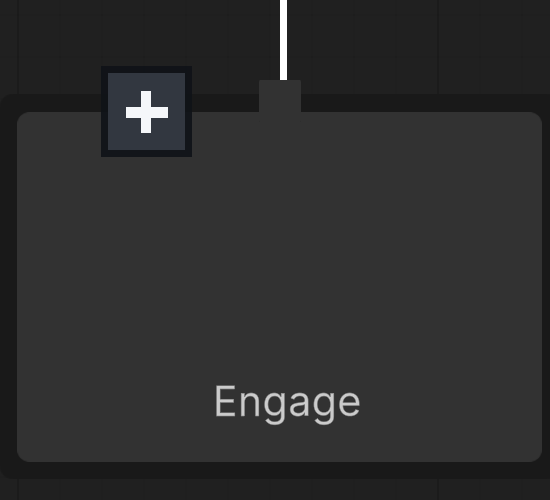
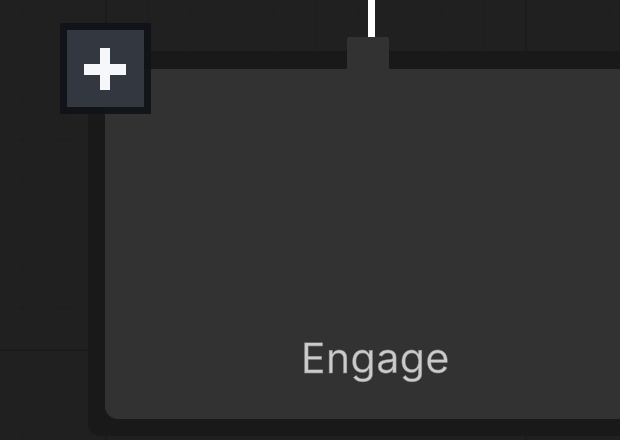
Give each node marker a corner of its own
The collapse toggle needs the top-left, and three markers were already there: the
breakpoint dot on the corner, the execution-status icon hanging off it, and the
problem badge straddling it. Measured, all three overlapped each other -- so this
is a redistribution rather than a sacrifice.

  top-left      collapse toggle, centred on the corner
  top edge      breakpoint dot, which steps aside only on a node that has a toggle
  top-right     priority badge, unchanged
  bottom-left   execution status, moved
  bottom-right  problem badge, moved

The two bottom markers hang from the underside of the node's name rather than from
the edge of the box, so they never land on the name however long it is.

The execution-status icon's cached rect and the rect it was drawn at were never the
same rectangle: the draw shifted it again by (-10, 20). Both now come from
ExecutionStateIconOn, so the thing that reasons about it and the thing that paints
it agree.

Measured on a live canvas with all five on at once: no two overlap, and none of
them touches the port rows or the name. docs/2-building-trees/01-the-graph-editor.md
gains a "Markers on a node" section with that picture, and a test asserts the three
rects that can be computed without a canvas stay apart.

diff --git a/Editor/Widgets/BehaviorTreeNodeElementWidget.cs b/Editor/Widgets/BehaviorTreeNodeElementWidget.cs
@@ -61,7 +61,7 @@ namespace ArcaneOnyx.BehaviorTree
         private readonly Vector2 ICON_POSITION_OFFSET = new Vector2(28.0f, 0.0f);
         private readonly Vector2 ICON_SIZE = new Vector2(65.0f, 65.0f);
         private readonly Vector2 TITLE_POSITION_OFFSET = new Vector2(-15.0f, -40.0f);
-        private readonly Vector2 LAST_EXECUTION_STATE_ICON_OFFSET = new Vector2(-15.0f, -35.0f);
+        private static readonly Vector2 EXECUTION_STATE_ICON_SIZE = new Vector2(25.0f, 25.0f);
 
         protected const float TITLE_HEIGHT = 25.0f;
 
@@ -301,20 +301,46 @@ namespace ArcaneOnyx.BehaviorTree
 
         private const float PROBLEM_BADGE_SIZE = 18.0f;
 
-        private const float PROBLEM_BADGE_INSET_FROM_THE_LEFT_EDGE = 2.0f;
+        /// <summary>How far a corner marker hangs past the edge it is anchored to.</summary>
+        private const float CORNER_MARKER_OVERHANG = 6.0f;
 
-        /// <summary>How far the badge is lifted above the node, so it straddles the top edge.</summary>
-        private const float PROBLEM_BADGE_LIFT = 6.0f;
+        /// <summary>The clear strip between the bottom of the node's name and the bottom of the box.</summary>
+        private const float GAP_BELOW_THE_NAME = 5.0f;
 
         /// <summary>
-        /// The execution-status icon owns the opposite corner, and on a narrow node -- a guard, or anything
-        /// at the default 150 width -- the two corners are close enough that a badge on the right sat on
-        /// top of it.
+        /// Where a marker hung from a bottom corner starts. The node's name is drawn across the bottom of
+        /// the box, so anchoring to the edge itself would put the marker on the end of the name.
+        /// </summary>
+        public static float BelowTheNameOf(Rect nodeRect) => nodeRect.yMax - GAP_BELOW_THE_NAME;
+
+        /// <summary>
+        /// The node's bottom-left corner.
+        /// <para>
+        /// It used to hang off the top-left, where it overlapped both the breakpoint dot and the problem
+        /// badge, and where the collapse toggle now goes. The rect it is drawn at is the rect this
+        /// returns: the draw used to shift it again by (-10, 20), so what was cached and what appeared
+        /// were never the same rectangle and nothing could reason about either.
+        /// </para>
+        /// </summary>
+        public static Rect ExecutionStateIconOn(Rect nodeRect) =>
+            new Rect(new Vector2(nodeRect.x + CORNER_MARKER_INSET, BelowTheNameOf(nodeRect)), EXECUTION_STATE_ICON_SIZE);
+
+        /// <summary>How far a corner marker sits in from the side it is anchored to.</summary>
+        private const float CORNER_MARKER_INSET = 2.0f;
+
+        /// <summary>
+        /// The node's bottom-right corner.
+        /// <para>
+        /// It used to straddle the top-left, which is now the collapse toggle's and which the
+        /// execution-status icon already overhangs. Of the four corners this is the one nothing else
+        /// claims: the priority badge owns the top-right, and the node's name is drawn centred across the
+        /// bottom, so the right end of that band is clear.
+        /// </para>
         /// </summary>
         public static Rect ProblemBadgeOn(Rect nodeRect) =>
             new Rect(
-                nodeRect.x + PROBLEM_BADGE_INSET_FROM_THE_LEFT_EDGE,
-                nodeRect.y - PROBLEM_BADGE_LIFT,
+                nodeRect.xMax - PROBLEM_BADGE_SIZE + CORNER_MARKER_OVERHANG,
+                BelowTheNameOf(nodeRect),
                 PROBLEM_BADGE_SIZE,
                 PROBLEM_BADGE_SIZE);
 
@@ -364,7 +390,7 @@ namespace ArcaneOnyx.BehaviorTree
 
             if (count > 1)
             {
-                // Reads outward from the icon, away from the node, so the number never lands on the title.
+                // Reads outward from the icon, past the node's edge, so the number never lands on its name.
                 var countRect = new Rect(badge.xMax - 3.0f, badge.y - 2.0f, 18.0f, 14.0f);
                 GUI.Label(countRect, count.ToString(), Styles.problemCount);
             }
@@ -485,7 +511,7 @@ namespace ArcaneOnyx.BehaviorTree
             if (style == null) return;
 
             Rect p = LastExecutionStateIconRect;
-            p.position += offset + new Vector2(-10, 20);
+            p.position += offset;
 
             using (BehaviorTreeScrubOverride.Ghost())
             {
@@ -562,13 +588,12 @@ namespace ArcaneOnyx.BehaviorTree
             Vector2 iconPosition = innerOrigin + ICON_POSITION_OFFSET;
             Vector2 titlePosition = GetTitlePosition(innerOrigin);
             Vector2 titleSize = new Vector2(element.Width, TITLE_HEIGHT);
-            Vector2 lastExecutionIconPosition = innerOrigin + LAST_EXECUTION_STATE_ICON_OFFSET;
-            
+
             using (LudiqGUIUtility.iconSize.Override(IconSize.Small))
             {
                 IconRect = new Rect(iconPosition, ICON_SIZE);
                 TittleRect = new Rect(titlePosition, titleSize);
-                LastExecutionStateIconRect = new Rect(lastExecutionIconPosition, new Vector2(25, 25));
+                LastExecutionStateIconRect = ExecutionStateIconOn(element.Position);
             }
         }
 

diff --git a/Test/EditMode/SubTreePreviewToggleTests.cs b/Test/EditMode/SubTreePreviewToggleTests.cs
@@ -34,22 +34,71 @@ namespace ArcaneOnyx.BehaviorTree.Tests
             Assert.That(button.yMax, Is.LessThan(NodeRect.center.y));
         }
 
+        /// <summary>
+        /// A node carries one marker per corner so that any combination of them can be on at once. Three
+        /// of them used to pile into the top-left and overlap each other.
+        /// </summary>
         [Test]
-        public void TheButtonStartsWhereTheProblemBadgeEnds()
+        public void NoTwoCornerMarkersOverlap()
         {
             var button = SubTreePreviewToggle.ButtonOn(NodeRect);
+            var badge = BehaviorTreeNodeElementWidget.ProblemBadgeOn(NodeRect);
+            var executionStatus = BehaviorTreeNodeElementWidget.ExecutionStateIconOn(NodeRect);
 
-            Assert.That(button.xMin,
-                Is.GreaterThan(BehaviorTreeNodeElementWidget.ProblemBadgeOn(NodeRect).xMax));
+            Assert.That(button.Overlaps(badge), Is.False, "collapse toggle over the problem badge");
+            Assert.That(button.Overlaps(executionStatus), Is.False, "collapse toggle over the execution status");
+            Assert.That(badge.Overlaps(executionStatus), Is.False, "problem badge over the execution status");
+        }
+
+        /// <summary>
+        /// The dot is anchored a little left of the node's own edge, so the room the button claims has to
+        /// cover that as well as the button.
+        /// </summary>
+        [Test]
+        public void TheRoomTheButtonClaimsLeavesTheBreakpointDotClear()
+        {
+            var node = NodeRunningABranch();
+            var button = SubTreePreviewToggle.ButtonOn(NodeRect);
+
+            Assert.That(NodeRect.xMin + SubTreePreviewToggle.RoomTakenOn(node),
+                Is.GreaterThan(button.xMax));
         }
 
         [Test]
-        public void TheButtonIsAtTheNodesLeftEdge()
+        public void ANodeThatCannotCollapseClaimsNoneOfItsCorner()
+        {
+            Assert.That(SubTreePreviewToggle.RoomTakenOn(new WaitTime()), Is.Zero);
+            Assert.That(SubTreePreviewToggle.RoomTakenOn(new RunBehaviorTreeGraphNode()), Is.Zero);
+        }
+
+        [Test]
+        public void TheBottomMarkersHangBelowTheNodesName()
+        {
+            Assert.That(BehaviorTreeNodeElementWidget.ProblemBadgeOn(NodeRect).yMin,
+                Is.GreaterThanOrEqualTo(BehaviorTreeNodeElementWidget.BelowTheNameOf(NodeRect)));
+            Assert.That(BehaviorTreeNodeElementWidget.ExecutionStateIconOn(NodeRect).yMin,
+                Is.GreaterThanOrEqualTo(BehaviorTreeNodeElementWidget.BelowTheNameOf(NodeRect)));
+        }
+
+        [Test]
+        public void TheButtonTakesTheTopLeftCornerAndTheProblemBadgeTheOpposite()
+        {
+            var button = SubTreePreviewToggle.ButtonOn(NodeRect);
+            var badge = BehaviorTreeNodeElementWidget.ProblemBadgeOn(NodeRect);
+
+            Assert.That(button.center.x, Is.LessThan(NodeRect.center.x));
+            Assert.That(button.center.y, Is.LessThan(NodeRect.center.y));
+            Assert.That(badge.center.x, Is.GreaterThan(NodeRect.center.x));
+            Assert.That(badge.center.y, Is.GreaterThan(NodeRect.center.y));
+        }
+
+        [Test]
+        public void TheButtonIsCentredOnTheNodesTopLeftCorner()
         {
             var button = SubTreePreviewToggle.ButtonOn(NodeRect);
 
-            Assert.That(button.xMin, Is.GreaterThanOrEqualTo(NodeRect.xMin));
-            Assert.That(button.center.x, Is.LessThan(NodeRect.center.x));
+            Assert.That(button.center.x, Is.EqualTo(NodeRect.xMin).Within(0.001f));
+            Assert.That(button.center.y, Is.EqualTo(NodeRect.yMin).Within(0.001f));
         }
 
         [Test]

diff --git a/Editor/Widgets/SubTreePreviewToggle.cs b/Editor/Widgets/SubTreePreviewToggle.cs
@@ -10,7 +10,6 @@ namespace ArcaneOnyx.BehaviorTree
         /// <summary>The priority badge's size, so the two markers read as a pair across the node's top.</summary>
         private const float ButtonSize = 26.0f;
 
-        private const float GapAfterTheProblemBadge = 4.0f;
 
         private const float GlyphThickness = 3.0f;
 
@@ -33,27 +32,40 @@ namespace ArcaneOnyx.BehaviorTree
         private const string CollapseTooltip = "Collapse this sub-tree to a named box";
 
         /// <summary>
-        /// Hung across the node's top edge at the same height as the priority badge on the opposite corner,
-        /// and started from the problem badge's right edge rather than from the node's.
+        /// Centred on the node's top-left corner, so a quarter of it covers the corner and the rest hangs
+        /// outside the box.
         /// <para>
-        /// Reading the badge's own rect is what keeps the two apart: the corner is the badge's, its place
-        /// there is fixed, and a constant copied from it would be a second copy to keep in step. Centring
-        /// the button on the edge rather than hanging it below also keeps it off the port rows, which
-        /// begin a few pixels inside the box and are most of what a collapsed node contains.
+        /// Outside rather than inside because a node has almost no room there: the port rows begin a few
+        /// pixels below the top edge, and a collapsed node is little else.
         /// </para>
         /// </summary>
         public static Rect ButtonOn(Rect nodeRect) =>
             new Rect(
-                BehaviorTreeNodeElementWidget.ProblemBadgeOn(nodeRect).xMax + GapAfterTheProblemBadge,
+                nodeRect.x - (ButtonSize / 2.0f),
                 nodeRect.y - (ButtonSize / 2.0f),
                 ButtonSize,
                 ButtonSize);
 
         /// <summary>
-        /// How much room the markers take at a node's top-left corner, so a header drawn in the same band
-        /// can start beside them instead of underneath them.
+        /// How much room the button takes at a node's top-left corner, so a header drawn in the same band
+        /// can start beside it instead of underneath it.
         /// </summary>
         public static float RoomNeededAtTheCorner => ButtonOn(new Rect(0.0f, 0.0f, 0.0f, 0.0f)).xMax;
+
+        /// <summary>
+        /// Enough to clear the button and whatever the next marker hangs past the corner by: the breakpoint
+        /// dot, the one marker that follows it, is anchored a little left of the node edge itself.
+        /// </summary>
+        private const float GapAfterTheButton = 10.0f;
+
+        /// <summary>
+        /// How much of this node's top-left corner the button claims, so another marker drawn there can
+        /// start clear of it. Zero for a node that never shows one, which is every node but this one.
+        /// </summary>
+        public static float RoomTakenOn(BehaviorTreeNode node) =>
+            node is RunBehaviorTreeGraphNode runNode && CanBeToggled(runNode)
+                ? RoomNeededAtTheCorner + GapAfterTheButton
+                : 0.0f;
 
         public static bool IsHit(Rect nodeRect, RunBehaviorTreeGraphNode node, Vector2 mousePosition) =>
             CanBeToggled(node) && ButtonOn(nodeRect).Contains(mousePosition);

diff --git a/Editor/Debugging/BehaviorTreeBreakpointGizmos.cs b/Editor/Debugging/BehaviorTreeBreakpointGizmos.cs
@@ -47,8 +47,10 @@ namespace ArcaneOnyx.BehaviorTree
             var breakpoint = BreakpointOn(node);
             if (breakpoint == null) return;
 
+            // Along the top edge, past whatever the collapse toggle claims of the corner -- nothing, on
+            // every node that cannot run a sub-tree.
             var dot = new Rect(
-                nodeRect.x - (DotSize * 0.35f),
+                nodeRect.x - (DotSize * 0.35f) + SubTreePreviewToggle.RoomTakenOn(node),
                 nodeRect.y - (DotSize * 0.35f),
                 DotSize,
                 DotSize);

diff --git a/docs/2-building-trees/01-the-graph-editor.md b/docs/2-building-trees/01-the-graph-editor.md
@@ -138,6 +138,28 @@ beside each one that can be fixed in one click. See [Checking your tree](09-chec
 
 ---
 
+## Markers on a node
+
+A node carries up to five markers, one to a corner, so that any combination of them can be on at once
+without covering each other or the node's ports and name.
+
+![A collapsed sub-tree node with every marker on at once: a plus button centred on its top-left corner, a red breakpoint dot beside it, a priority badge numbered 1 on its top-right, a green success tick under its bottom-left, and an orange problem badge on its bottom-right](../images/node-markers.png)
+
+| Where | Marker | It means | Shown when |
+|---|---|---|---|
+| Top-left | **Collapse toggle** | `+` expands the sub-tree preview, `-` collapses it | the node runs another tree ([Sub-trees](07-sub-trees.md)) |
+| Top edge, beside it | **Breakpoint dot** | the editor will stop here; grey means armed but switched off | a breakpoint is set ([Breakpoints](../3-debugging/05-breakpoints.md)) |
+| Top-right | **Priority badge** | which child of a composite this is, counting from 1; amber means the layout and the stored order disagree | the node is one of two or more children ([Execution order](05-execution-order.md)) |
+| Bottom-left | **Execution status** | what the node returned the last time it ran | a tree has run, or the timeline is parked on a tick ([Timeline](../3-debugging/02-timeline.md)) |
+| Bottom-right | **Problem badge** | red for an error, amber for a warning; hover it for the reason | the node cannot work as authored ([Checking your tree](09-checking-your-tree.md)) |
+
+The collapse toggle and the priority badge are centred on their corners; the two bottom markers hang from
+the underside of the node's name rather than from the edge of the box, so they never land on the name
+however long it is. The breakpoint dot steps aside only on a node that has a collapse toggle; everywhere
+else it sits on the corner itself.
+
+---
+
 ## Sticky notes
 
 **Create Sticky Note**, at the top of the right-click menu, adds a note to the canvas. Trees get large

diff --git a/docs/2-building-trees/07-sub-trees.md b/docs/2-building-trees/07-sub-trees.md
@@ -26,12 +26,13 @@ A preview is the right default, because you can read a branch without opening it
 tree built out of branches hard to read: a branch that is genuinely 3,000 px wide pushes its siblings
 3,000 px apart, and every wire between them follows.
 
-The button hanging across the node's top-left edge collapses it, at the same height as the priority badge
-on the opposite corner and clear of the problem badge. A collapsed node is the small box it was created
-at, carrying the branch's name and its parameter ports and nothing else. The glyph says what the click
-will do: **-** while the preview is showing, **+** while it is collapsed.
+The button centred on the node's top-left corner collapses it, mirroring the priority badge across the
+way. A collapsed node is the small box it was created at, carrying the branch's name and its parameter
+ports and nothing else. The glyph says what the click will do: **-** while the preview is showing, **+**
+while it is collapsed. See [Markers on a node](01-the-graph-editor.md#markers-on-a-node) for the other
+four corners.
 
-![A collapsed Run Behavior Tree Graph node: a small box labelled Engage, with a plus button hanging across its top-left edge](../images/sub-tree-collapsed.png)
+![A collapsed Run Behavior Tree Graph node: a small box labelled Engage, with a plus button centred on its top-left corner](../images/sub-tree-collapsed.png)
 
 The state is stored on the node, in the tree that calls the branch, so a canvas you collapsed opens
 collapsed the next time. It travels with the asset, which means it is not just your view of the tree:
